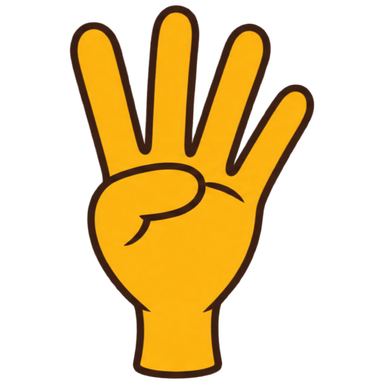
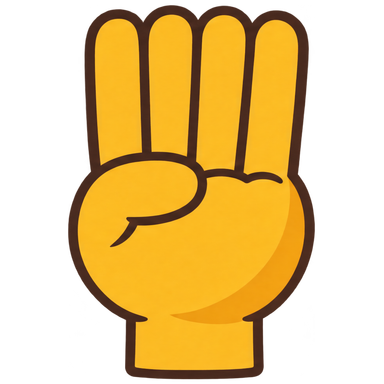
Give young children more time to count, and put the earlier hands back
The first test with a three year old found the belt too fast to count by.
Younger children now get a slower belt at every speed, and every thing
there is to count adds a little more time. At age 3 a number question takes
about ten seconds to arrive on normal, where it took about six.

The slimmer hands are replaced by the set before them.

Changed region(s): [[0.1562, 0.0, 0.8438, 1.0]]

diff --git a/src/game.js b/src/game.js
@@ -32,6 +32,16 @@ const clamp = (value, min, max) => Math.min(max, Math.max(min, value));
 
 // Where the dots go on a door sign, like the faces of a dice up to 6,
 // then rows of five. Returns [x, y, radius] for each dot.
+// How many things a child may have to count to answer a question: the things shown in the
+// banner, and the dots on the fullest door.
+function thingsToCount(question) {
+  const { kind, answer, choices, doors } = question;
+  const shown = kind === 'same' || kind === 'count' ? answer : kind === 'add' && question.pictures ? question.a + question.b : 0;
+  const numbers = ['same', 'count', 'find', 'more', 'fewer'].includes(kind);
+  const dots = numbers && (doors === 'dots' || doors === 'both') ? Math.max(...choices) : 0;
+  return shown + dots;
+}
+
 // Where the dots go on a door's sign: like the faces of a dice up to six, then two rows
 // of five.
 function dotLayout(count, w, h) {
@@ -522,7 +532,12 @@ export class Game {
     // (The extra half second covers the belt getting up to speed and the choice being
     // fixed a moment before the doors arrive.)
     // Endless runs do not wait for anybody.
-    row.travelTime = this.endless ? this.travelTime() : Math.max(this.travelTime(), spoken + this.pace.think + 0.5);
+    // Younger children get a slower belt, and extra time for every thing there is to count.
+    const ease = CONFIG.ageEase[this.age] ?? { slower: 1, perItem: 0 };
+    const toCount = Math.min(14, thingsToCount(question));
+    row.travelTime = this.endless
+      ? this.travelTime()
+      : Math.max(this.travelTime() * ease.slower, spoken + this.pace.think * ease.slower + toCount * ease.perItem + 0.5);
     row.age = 0;
     row.state = 'approach';
     row.locked = false;

diff --git a/src/config.js b/src/config.js
@@ -31,6 +31,19 @@ export const CONFIG = {
   pace: 'normal', // the speed picked the first time someone plays
   maxWaitForVoice: 6, // the next doors wait up to this long for the voice to finish talking
 
+  // Younger children get more time, whichever of the three speeds is picked.
+  //   slower   how many times longer a row of doors takes, and how much longer the time to think is
+  //   perItem  extra seconds for every thing there is to count: the things in the banner
+  //            and the dots on the fullest door. A three year old counts by touching each
+  //            one in turn, and that takes time.
+  // The first test with a three year old found the belt too fast to count by.
+  ageEase: {
+    3: { slower: 1.3, perItem: 0.7 },
+    4: { slower: 1.15, perItem: 0.5 },
+    5: { slower: 1.05, perItem: 0.3 },
+    6: { slower: 1, perItem: 0.15 },
+  },
+
   // The belt keeps one steady speed through a run, because guidance for small children says
   // to avoid fast-paced games. To make it speed up during a run (for older children), set
   // travelTimeStep to something like 0.25.

diff --git a/README.md b/README.md
@@ -55,6 +55,7 @@ Endless mode is on the settings screen (the ⚙ button), under "Para adultos 
 - A wrong door gives a soft bump, shows which door was right, and says the answer. For small amounts the voice counts them out first. The next right door brings the runner forward again.
 - The question is shown as a picture, written underneath in words, and said out loud. Tapping the question says it again.
 - The belt has three speeds, picked on the settings screen (the ⚙ button on the start screen): slow, normal, and fast. It keeps that speed through a run.
+- Younger children get more time at every speed. At age 3 the belt is about a third slower, and every thing there is to count (the things in the banner and the dots on the fullest door) adds a little more, so a question with three balls and doors of dots takes about ten seconds to arrive on normal. This came from the first test with a three year old, who found the belt too fast to count by. The amounts are under `ageEase` in `src/config.js`.
 - The next doors wait until the voice has finished talking, and a long question slows the belt for that row, so there is always time to think after hearing it (about 3.5 seconds on slow, 2.5 on normal, 2 on fast).
 - Praise is spoken with every other right answer and with every trick, not every time.
 - Every character is unlocked from the start. (A character can be turned into a prize again by giving it an unlock cost in `src/characters.js`.) The high score table is for endless runs.
